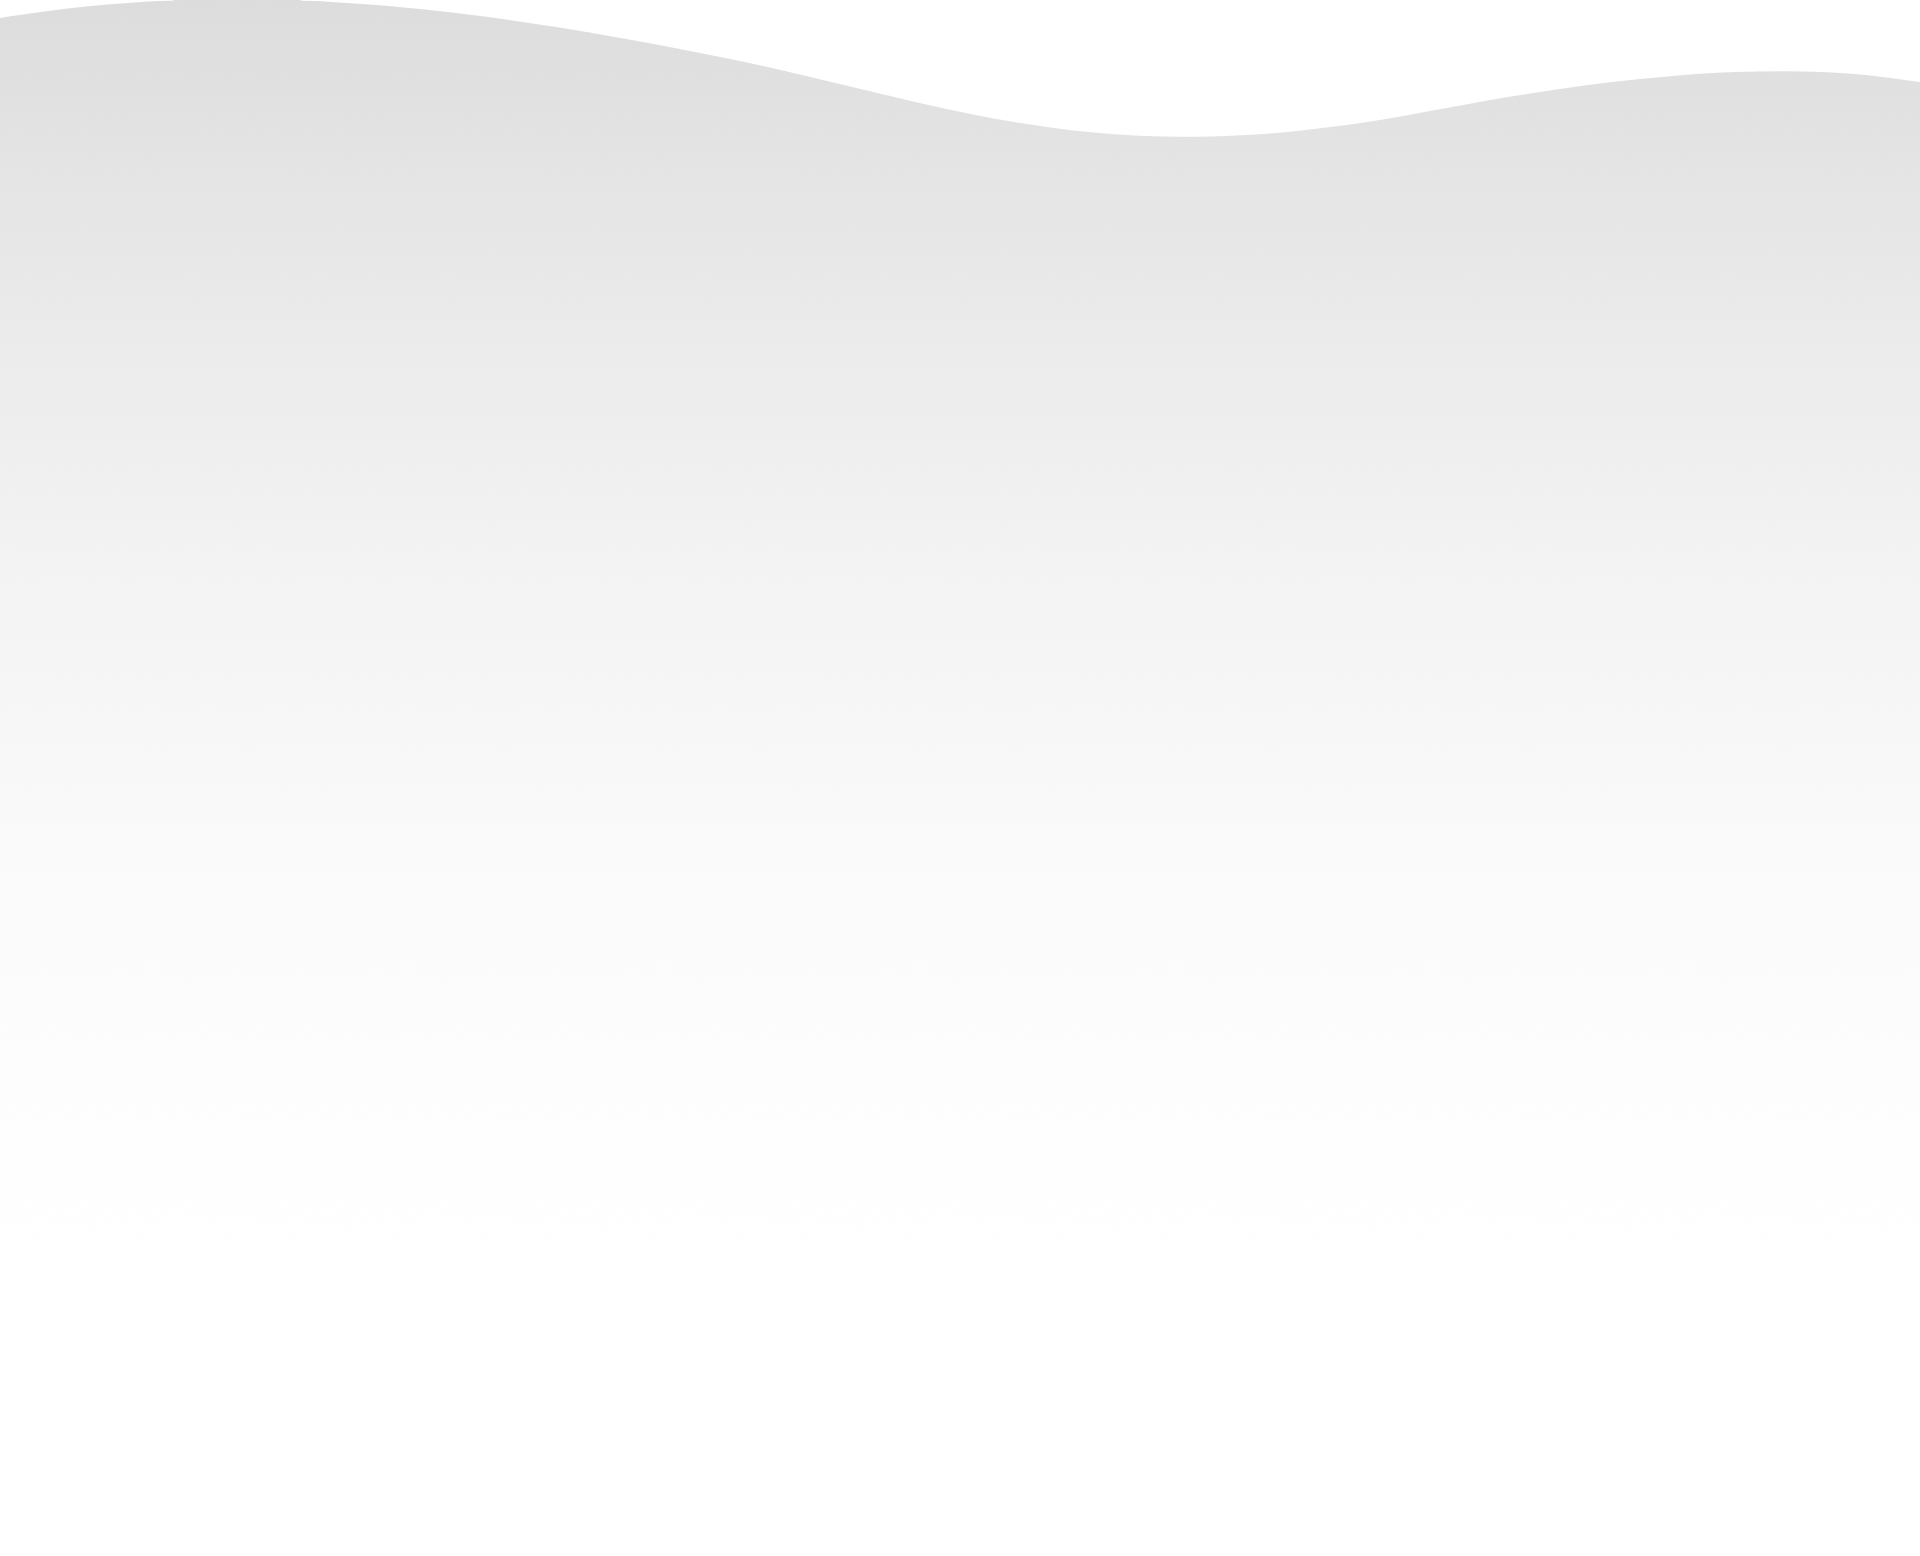
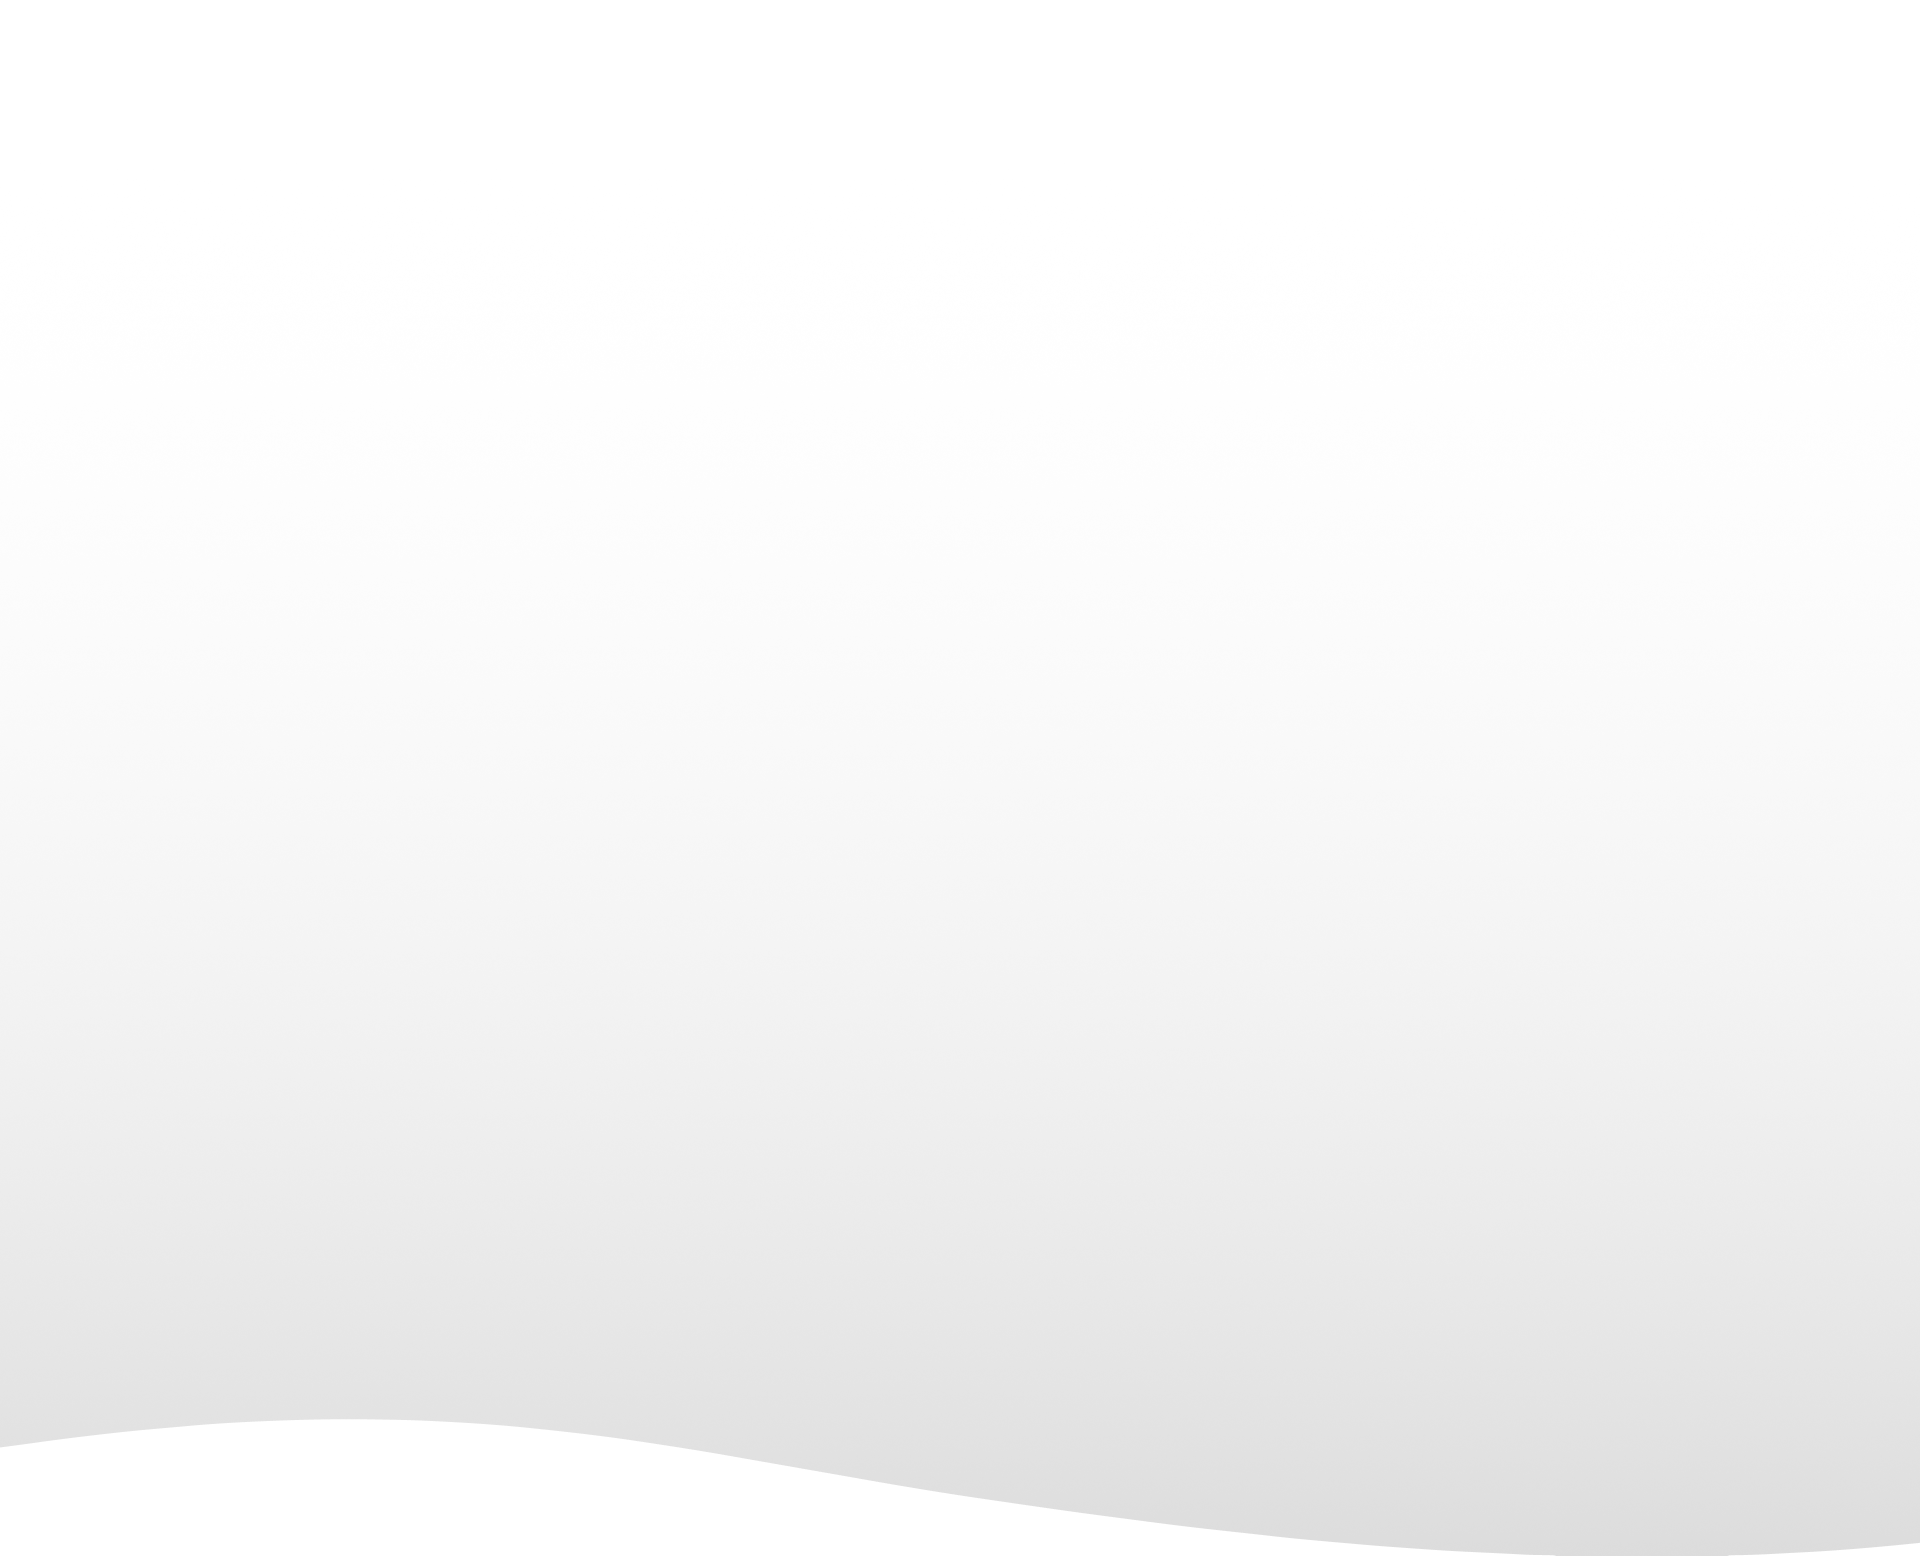
qs arreglos

Changed region(s): [[0.0, 0.8329, 1.0, 1.0], [0.0, 0.0, 1.0, 0.1542]]

diff --git a/src/page/quienessomos.html b/src/page/quienessomos.html
@@ -31,7 +31,6 @@
         </nav>
     </header>
 
-    <section>
         
         <div class="qs-img-container">
             <h1 class="qs-title">QUIENES 
@@ -44,12 +43,14 @@
         </div>
         <div class="vectores-container">
             <div>
-                <img src="../image/Vectorgris.png"  class="vector-gris" alt="">
+                <img src="../image/Vectorgris1.png"  class="vector-gris" alt="">
             </div>
             <div>
                 <img src="../image/Vectornaranja.png" class="vector-naranja" alt="">
             </div>
-            
+            <div>
+                <img src="../image/Vectorgris.png" class="vector-gris-1" alt="">
+            </div>
         </div>
         <div class="qs-title-2-container">
             <h2 class="qs-title-2">NUESTRA MISIÓN</h2>
@@ -67,43 +68,38 @@
             </div>
             <div class="rectangle-background">
                 <div class="rectangle">
-                    <h3>Nosotros creemos:</h3>
-                    <p>
+                    <div class="rectangle__div">
+                        <h3 class="rectangle__h3">Nosotros creemos:</h3>
+                    </div>
+                    
+                    <p class="rectangle__p">
     
                         Que la diversidad enriquece;
+                        <br>
                         Que si hay derechos hay deberes y ambos deben ser cumplidos;
+                        <br>
                         Que la unión, virtudes y problemas de las personas no entienden de fronteras;
-                        Que la empatía y el trabajo en equipo facilita los resultados;
+                        <br>
+                        Que la empatía y el trabajo empatía y el trabajo en equipo facilita los resultados;
+                        <br>
                         Que la libertad enmarcada en reglas democráticas y republicanas es incuestionable;
+                        <br>
                         Que los gobiernos deben ser eficaces, honestos accesibles y de régimen parlamentario;
+                        <br>
                         Que somos ciudadanos de paso y debemos considerar a las futuras generaciones;
+                        <br>
                         Que la paz social prevalece sobre todo interés y/o pretensión que atente contra la misma;
+                        <br>
                         Que el desarrollo de nuevas tecnologías y avances científicos deben ser en corcordancia con la ética y la morarl;
+                        <br>
                         Y que prestar servicio a la comunidad es la más loable tarea que puede realizar un ser humano.</p>
                 </div>
             </div>
             </div>
             
 
-       <!--
-        <div class="rectangle">
-            <h2>CREDO</h2>
-            <h4>NOSOTROS CREEMOS</h4>
-            <p>
-                Que la diversidadf enriquece;
-                Que si hay derechos hay deberes y ambos deben ser cumplidos;
-                Que la unión, virtudes y problemas de las personas no entienden de fronteras;
-                Que la empatía y el trabajo en equipo facilita los resultados;
-                Que la libertad enmarcada en reglas democráticas y republicanas es incuestionable;
-                Que los gobiernos deben ser eficaces, honestos accesibles y de régimen parlamentario;
-                Que somos ciudadanos de paso y debemos considerar a las futuras generaciones;
-                Que la paz social prevalece sobre todo interés y/o pretensión que atente contra la misma;
-                Que el desarrollo de nuevas tecnologías y avances científicos deben ser en corcordancia con la ética y la moral;
-                Y que prestar servicio a la comunidad es la más loable tarea que puede realizar un ser humano.</p>
-        </div>
-    </section>
-       --> 
-<!--
+      
+
         <footer class="footer" >
         <div class="contenedor__footer">
                 <div class="logo__footer">
@@ -154,7 +150,7 @@
         
     </footer>
 
--->
+
 
 
 

diff --git a/src/css/quienessomos.css b/src/css/quienessomos.css
@@ -38,6 +38,13 @@
     z-index: -1;
     width: 100%;
 }
+
+.vector-gris-1 {
+    position: absolute;
+    z-index: -1;
+    width: 100%;
+    margin-top: 600px;
+}
 .vector-naranja {
     position: absolute;
     z-index: 1;
@@ -92,9 +99,12 @@
 }
 .rectangle-container {
     margin-top: 200px;
+    margin-bottom: 300px;
+    
 }
 .rectangle-title {
     z-index: 2;
+    margin-bottom: 40px;
 }
 .title-container {
     display: flex;
@@ -103,10 +113,39 @@
 .rectangle {
     background-color: white;
     z-index: 2;
-    border-radius: 10px;
+    border-radius: 15px;
+    box-shadow: 0px 20px 77px -35px rgba(0, 0, 0, 0.25);
 }
 .rectangle-background {
     margin: 0 40px;
     display: flex;
     justify-content: center;
+}
+
+.rectangle__h3 {
+    color: #4a4a4a;
+    z-index: 2;
+    text-align: center;
+    align-self: center;
+    font-family: 'Montserrat';
+    font-style: normal;
+    margin: 20px 0;
+}
+.rectangle__p {
+    color: #ED6502;
+    z-index: 2;
+    font-family: 'Montserrat';  
+    font-style: normal;
+    line-height: 35px;
+    margin-bottom: 70px;
+    margin-left: 30px;
+    margin-right: 30px;
+}
+.rectangle__div {
+    display: flex;
+    justify-content: center;
+    margin: 20px;
+    font-weight: 800;
+    font-size: 25px;
+    
 }
